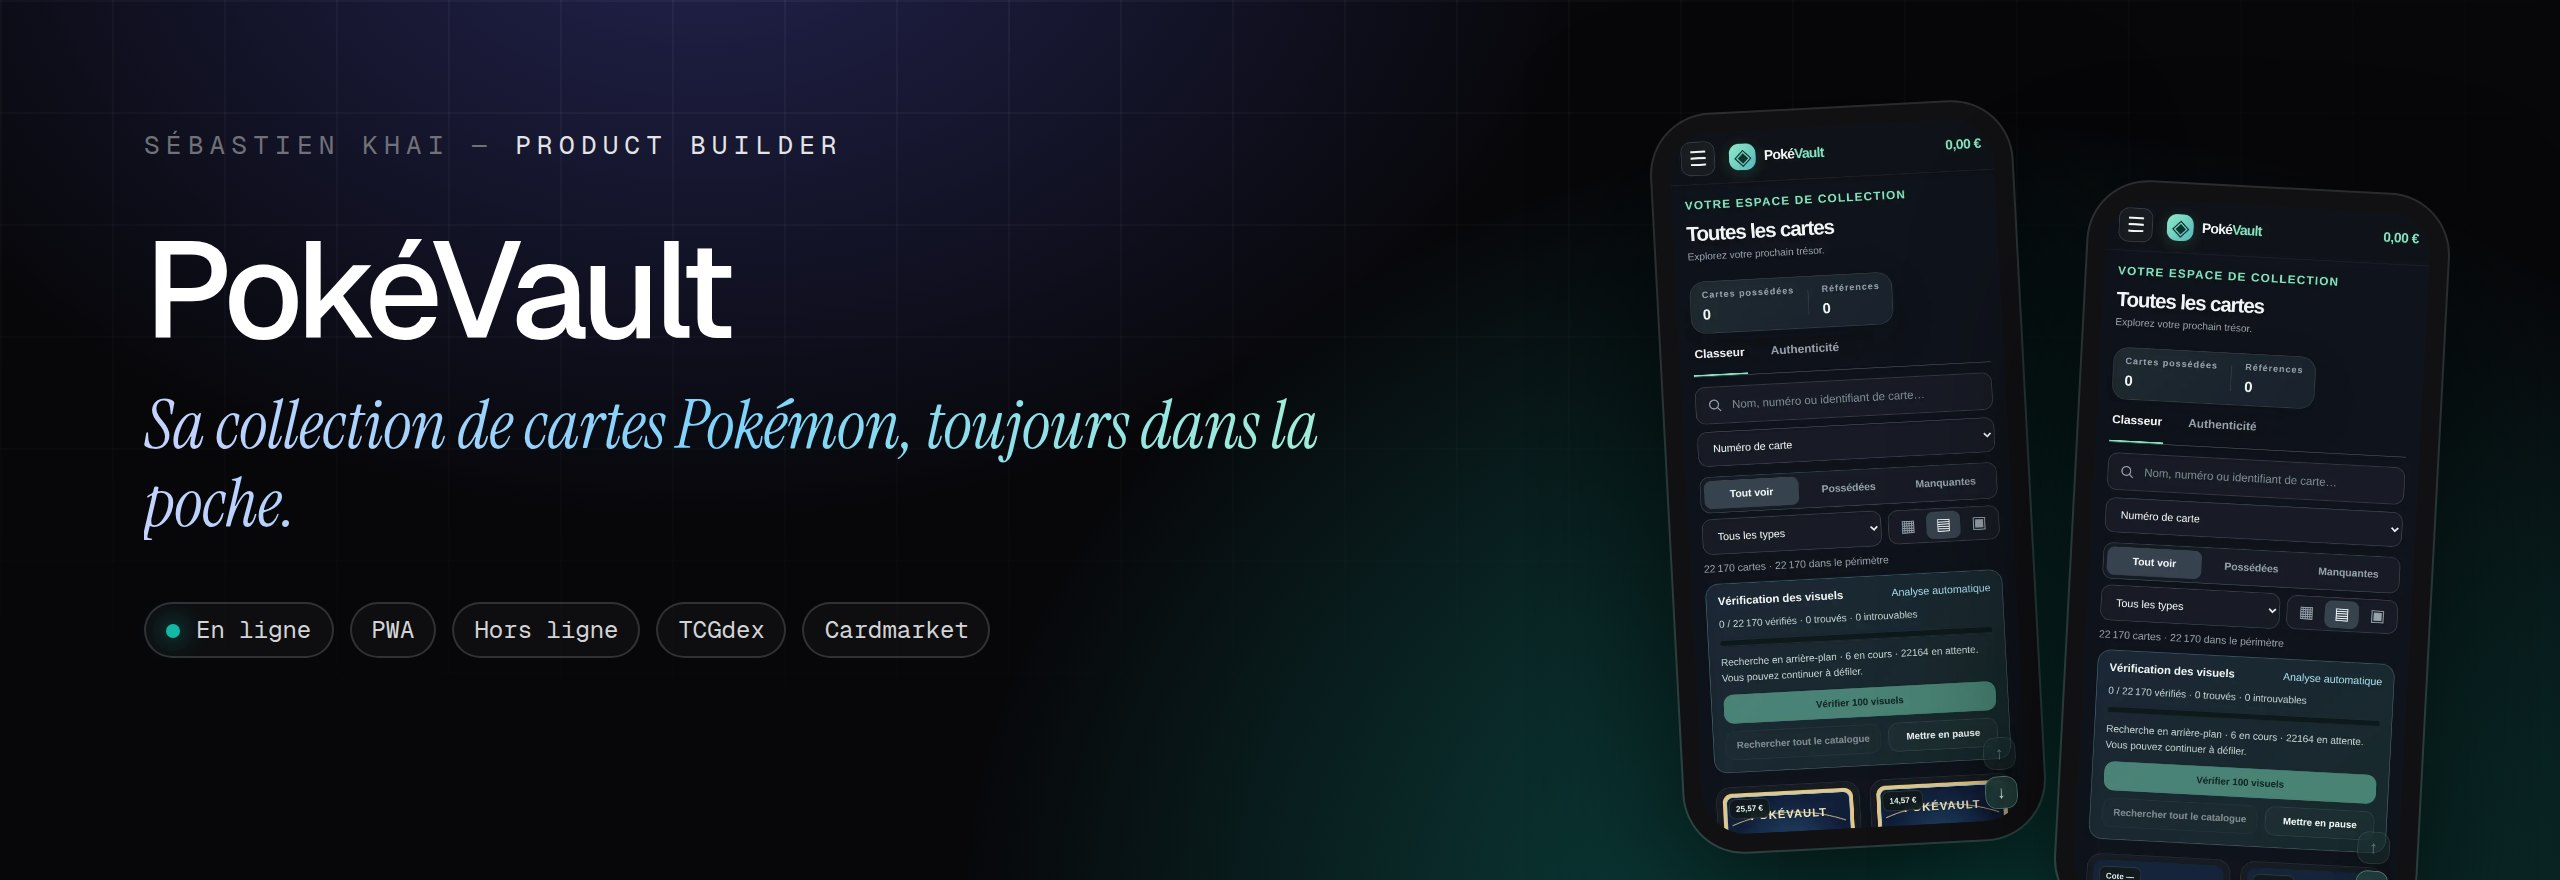
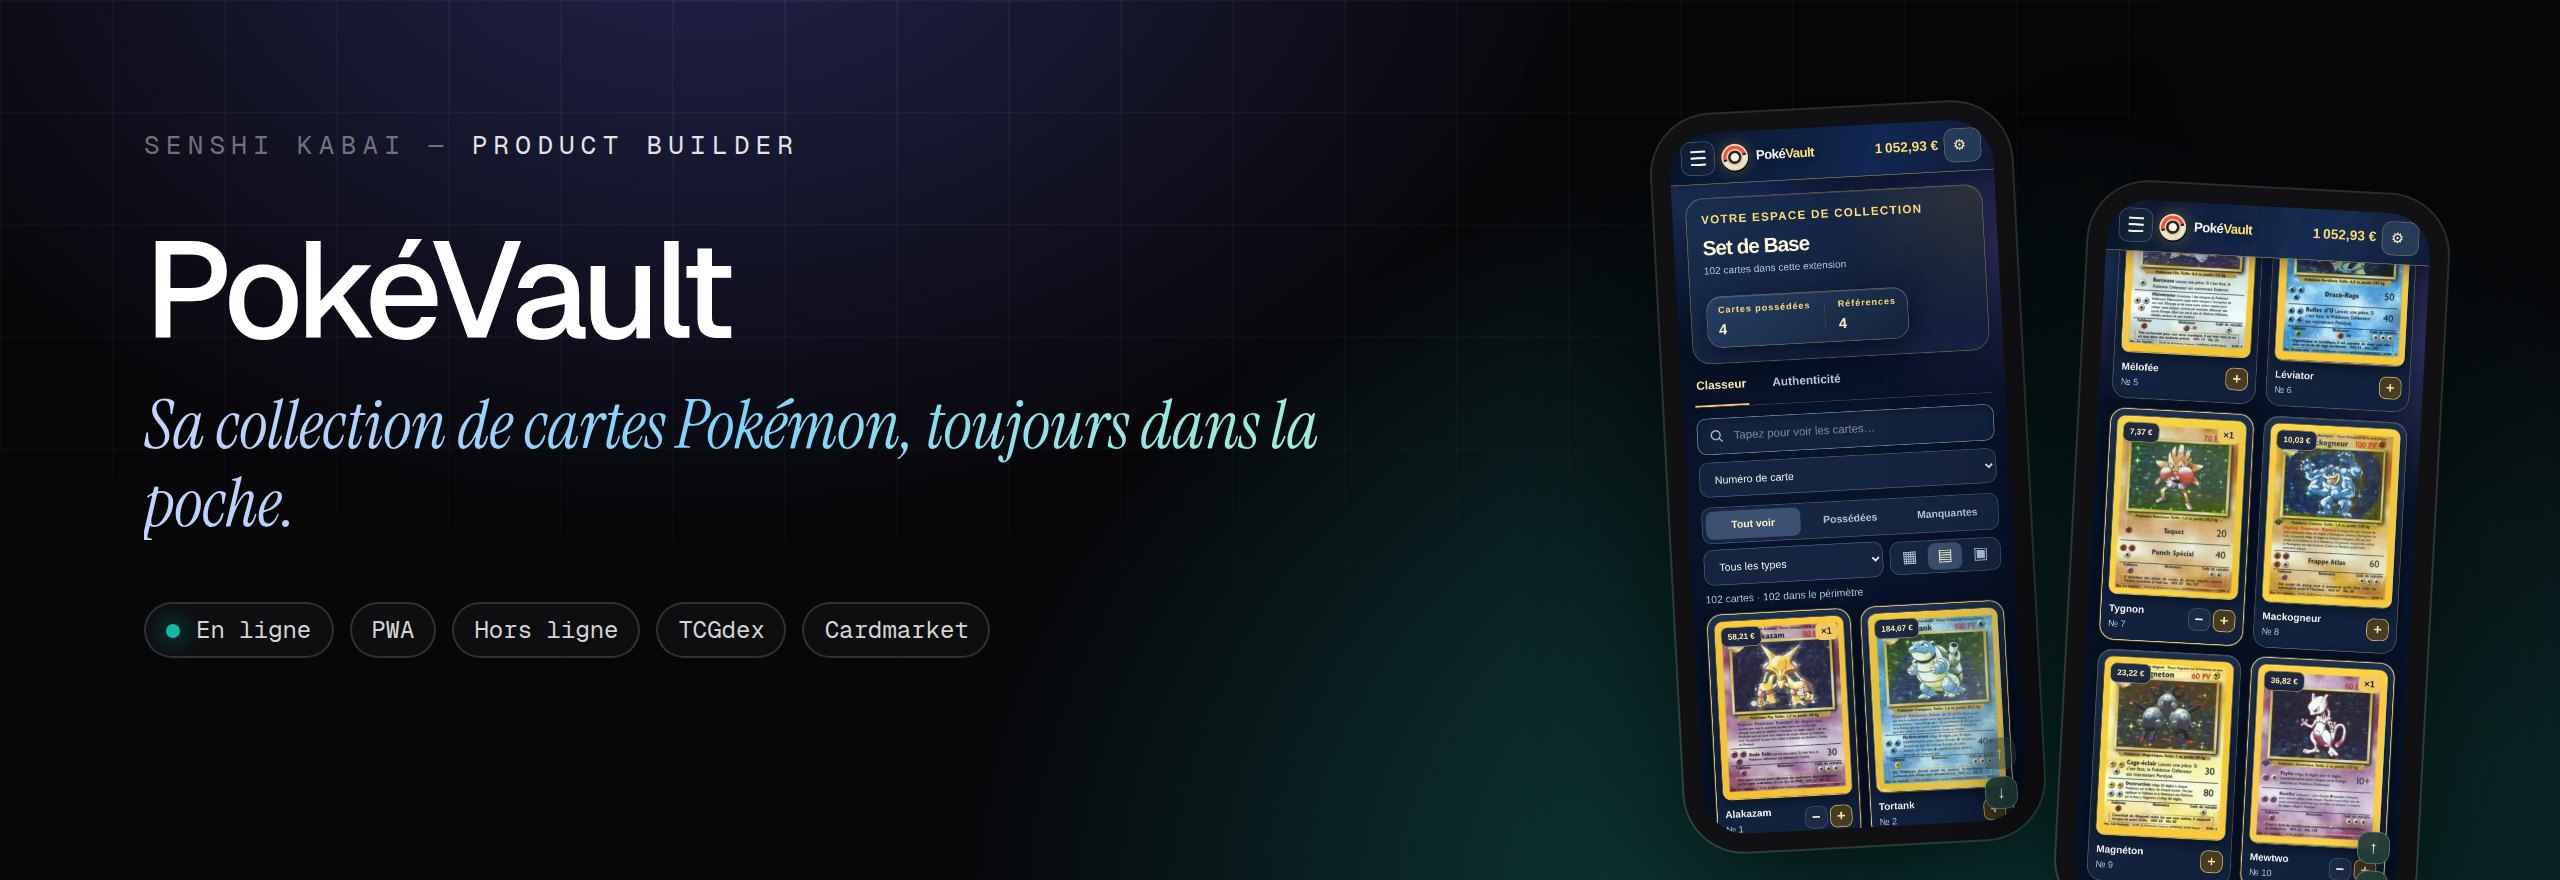
README : alias Senshi Kabai, statut non cliquable, note « pensé pour le téléphone », captures à jour
Claude-Session: https://claude.ai/code/session_015A1Mfhpz8ACWbnb2M1oD1D

Changed region(s): [[0.8125, 0.2148, 0.9688, 1.0], [0.625, 0.1227, 0.7812, 0.9511], [0.0625, 0.1534, 0.3438, 0.1841]]

diff --git a/README.md b/README.md
@@ -2,12 +2,14 @@
 
 <p align="center">
   <a href="https://engob.github.io/PokeTest/"><img alt="Essayer" src="https://img.shields.io/badge/Essayer-Ouvrir_le_classeur-0b0b0f?style=for-the-badge&labelColor=0b0b0f"></a>
-  <img alt="Statut" src="https://img.shields.io/badge/Statut-En_ligne-059669?style=for-the-badge&labelColor=0b0b0f">
-  <a href="https://engob.github.io/portofolio/projets/pokevault/"><img alt="Portfolio" src="https://img.shields.io/badge/Portfolio-S%C3%A9bastien_Khai-4f46e5?style=for-the-badge&labelColor=0b0b0f"></a>
+  <a href="https://engob.github.io/portofolio/projets/pokevault/"><img alt="Portfolio" src="https://img.shields.io/badge/Portfolio-Senshi_Kabai-4f46e5?style=for-the-badge&labelColor=0b0b0f"></a>
 </p>
 
 <h1 align="center">PokéVault</h1>
 <p align="center"><b>Sa collection de cartes Pokémon, toujours dans la poche.</b><br>Un classeur numérique rapide pour suivre sa collection, retrouver les visuels officiels et connaître la cote de chaque carte, même hors connexion.</p>
+<p align="center"><sub>Statut : <b>En ligne</b></sub></p>
+
+> **Pensé pour le téléphone.** C'est une application web installable (PWA) : ouvrez la démo sur votre mobile pour la voir telle qu'elle a été conçue. Sur un ordinateur, l'affichage n'est pas celui prévu ; la [fiche du portfolio](https://engob.github.io/portofolio/projets/pokevault/) l'ouvre dans un cadre de téléphone, avec un QR code pour passer sur mobile.
 
 ---
 
@@ -41,7 +43,7 @@ Tracking thousands of cards with the right artwork and reliable prices — no ac
 
 ---
 
-<p align="center"><sub>Conçu, développé et mis en ligne par <b>Sébastien Khai</b>, Product Builder · <a href="https://engob.github.io/portofolio/">portfolio</a> · <a href="https://engob.github.io/portofolio/projets/pokevault/">fiche du projet</a><br>© 2026 Sébastien Khai — tous droits réservés.</sub></p>
+<p align="center"><sub>Conçu, développé et mis en ligne par <b>Senshi Kabai</b>, Product Builder · <a href="https://engob.github.io/portofolio/">portfolio</a> · <a href="https://engob.github.io/portofolio/projets/pokevault/">fiche du projet</a><br>© 2026 Senshi Kabai — tous droits réservés.</sub></p>
 
 
 <details>
